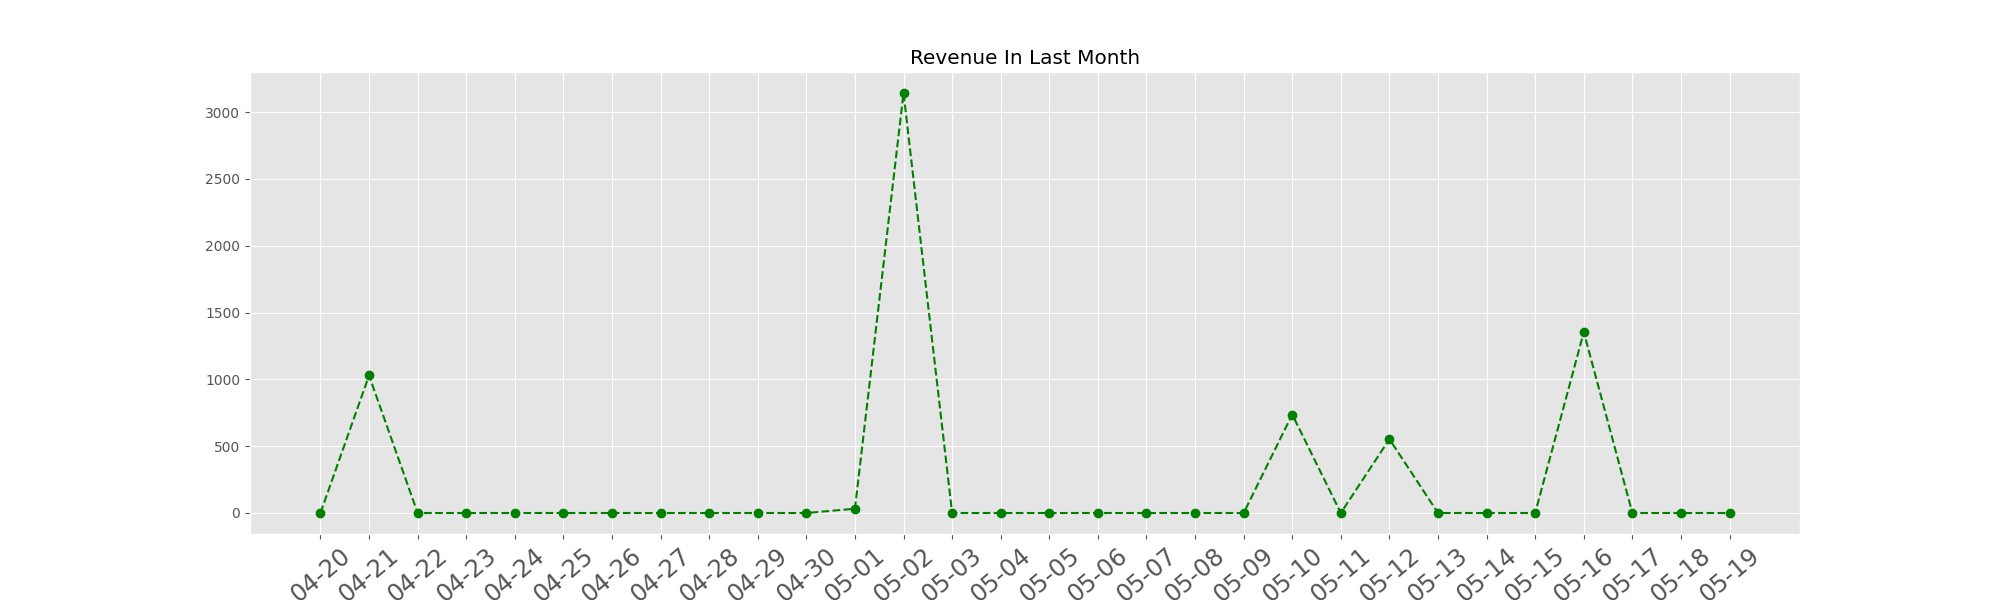
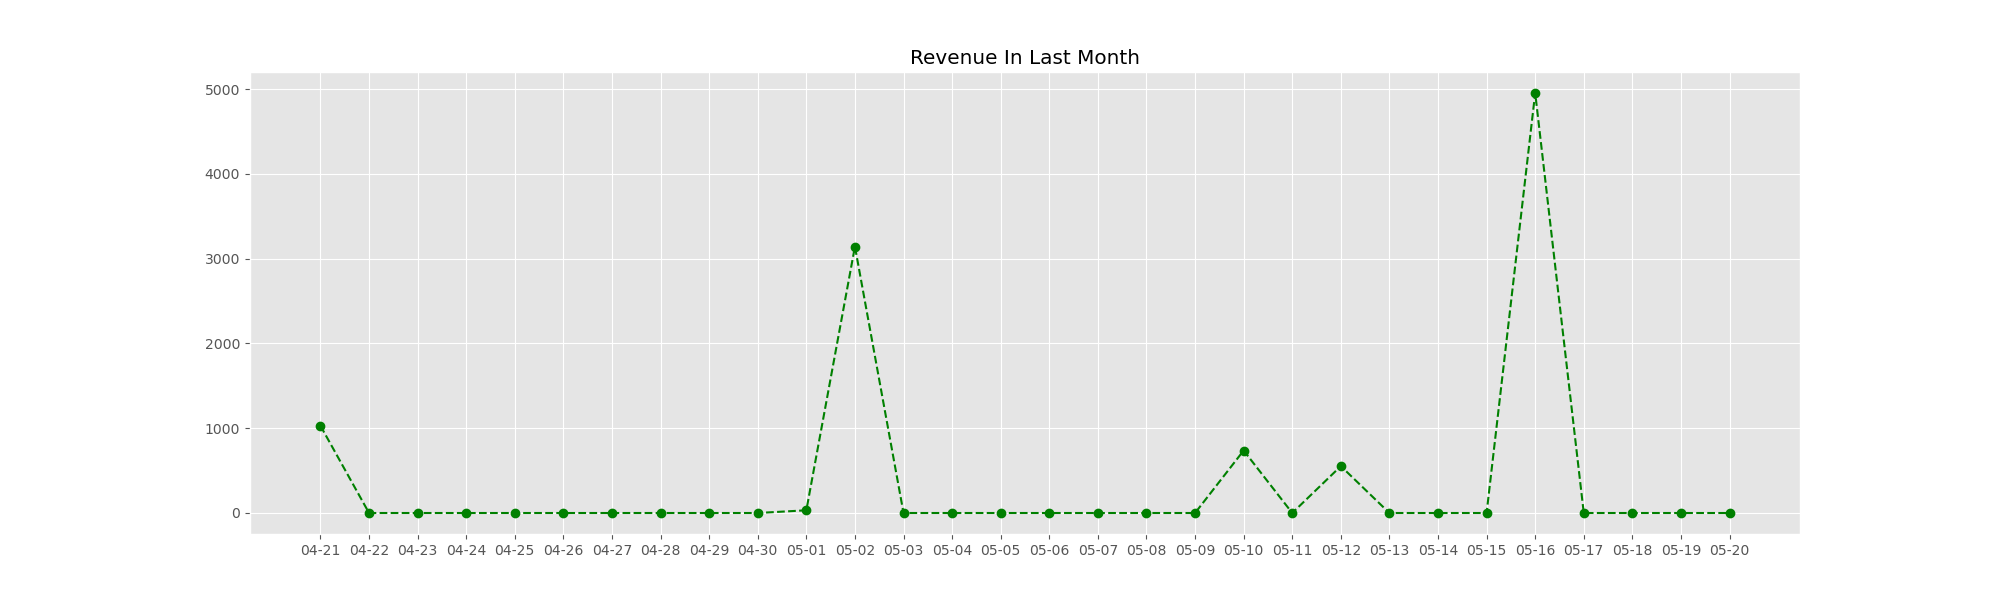
release5.24

diff --git a/newsapp/templates/Charts.html b/newsapp/templates/Charts.html
@@ -67,7 +67,7 @@
 								<ul class="stats-plain">
 									<li>										
 										<h4>{{ revenue }}</h4>
-										<span>{{ _('Total Revenue') }}</span>
+										<span>Total Revenue</span>
 									</li>
 									<li>										
 										<h4>1433</h4>

diff --git a/newsapp/routes.py b/newsapp/routes.py
@@ -1064,11 +1064,11 @@ def Charts():
     fig = plt.figure(figsize=(20, 6))
     plt.style.use('ggplot')
     ax = fig.add_subplot(1, 1, 1)
-    lab = ax.set_xticklabels(labels=xaxis, rotation=40, fontsize='xx-large')
-    ax.set_title('Revenue In Last Month')
+    """lab = ax.set_xticklabels(labels=xaxis, rotation=40, fontsize='xx-large')"""
+    """ax.set_title('Revenue In Last Month')
     plt.plot(xaxis, price, 'go--')
     # plt.show()
-    fig.savefig(r'./newsapp/static/images/Revenue.png')
+    fig.savefig(r'./newsapp/static/images/Revenue.png')"""
     # print('save le')
 
     OrderF=1

diff --git a/app.py b/app.py
@@ -3,7 +3,6 @@ from newsapp import app,db
 if __name__ == '__main__':
     """db.drop_all()
     db.create_all()"""
-    db.create_all()
+    """db.create_all()"""
     # test.CreateOrder()
-
-    app.run(debug = True)
+    app.run()
